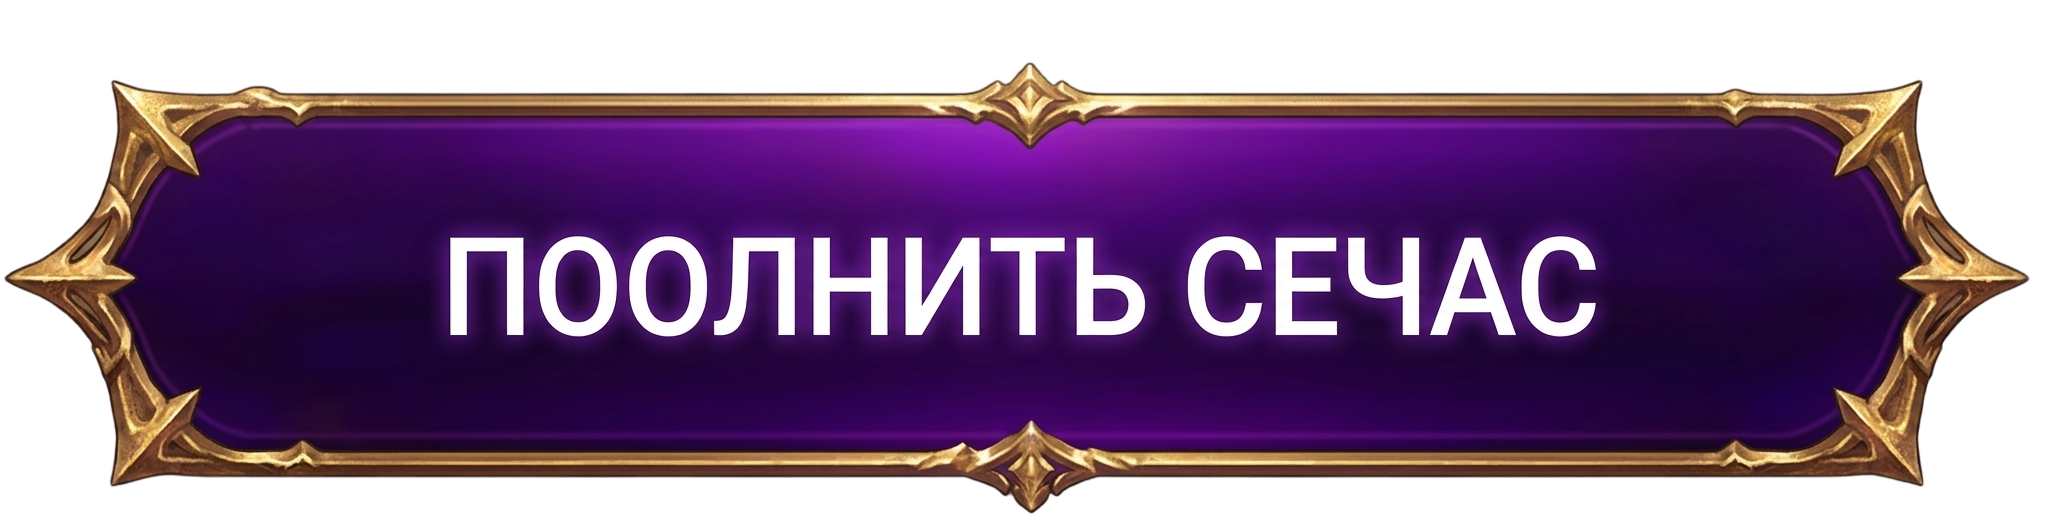
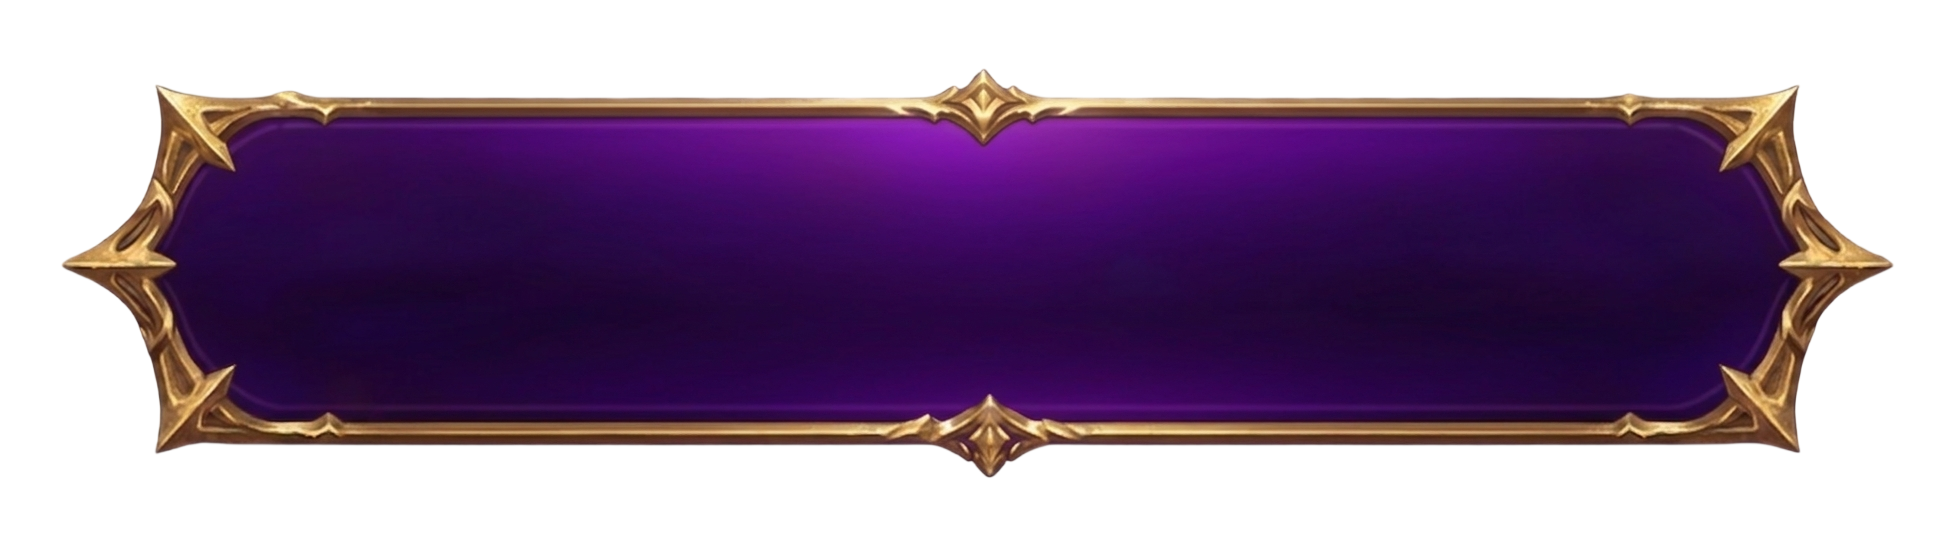
feat: add reviews section with button, update CTA buttons to text-based design

diff --git a/index.html b/index.html
@@ -147,7 +147,7 @@
         </ul>
 
         <a class="hero__cta" href="#" data-cta="primary" aria-label="Пополнить сейчас">
-          <img src="assets/images/hero/button.png" alt="" class="hero__cta-img" width="400" height="80">
+          <span class="hero__cta-text">Пополнить сейчас</span>
         </a>
       </div>
     </section>
@@ -457,6 +457,29 @@
       </div>
     </section>
 
+    <!-- 6.5 Reviews -->
+    <section class="reviews" id="reviews">
+      <div class="container container--wide">
+        <header class="section-heading">
+          <span class="section-heading__ornament" aria-hidden="true">
+            <span class="section-heading__line"></span>
+            <span class="section-heading__gem"></span>
+          </span>
+          <h2 class="section-heading__title">Отзывы наших клиентов</h2>
+          <span class="section-heading__ornament" aria-hidden="true">
+            <span class="section-heading__gem"></span>
+            <span class="section-heading__line"></span>
+          </span>
+        </header>
+
+        <div class="reviews__btn-wrap">
+          <a class="reviews__btn" href="https://t.me/BoostPayStore" target="_blank" rel="noopener noreferrer" aria-label="Отзывы наших клиентов">
+            <img class="reviews__btn-img" src="assets/images/hero/button2.png" alt="Отзывы" loading="lazy">
+          </a>
+        </div>
+      </div>
+    </section>
+
     <!-- 7. News & Promotions -->
     <section class="news" id="news">
       <div class="container container--wide">
@@ -622,7 +645,7 @@
         <h2 class="cta-banner__title">Готов к новым победам?</h2>
         <p class="cta-banner__text">Пополняй игры быстро, безопасно и выгодно в BOOSTPAY Store!</p>
         <a class="cta-banner__btn" href="#" data-cta="primary" aria-label="Пополнить сейчас">
-          <img src="assets/images/hero/button.png" alt="" class="cta-banner__btn-img" width="400" height="80">
+          <span class="cta-banner__btn-text">Пополнить сейчас</span>
         </a>
       </div>
     </section>

diff --git a/css/cta.css b/css/cta.css
@@ -79,29 +79,32 @@
   align-items: center;
   justify-content: center;
   margin-top: clamp(0.5rem, 1.5vh, 1rem);
-  min-width: min(18rem, 90%);
-  max-width: 24rem;
-  background: none;
+  width: clamp(14rem, 50%, 24rem);
+  aspect-ratio: 1959 / 544;
+  padding: 2.5% 4%;
+  background: url('../assets/images/hero/button.png') center / 100% 100% no-repeat;
   border: none;
   box-shadow: none;
+  overflow: hidden;
   transition: transform var(--transition-base), filter var(--transition-base);
   text-decoration: none;
 }
 
-.cta-banner__btn-img {
-  width: 100%;
-  height: auto;
-  display: block;
+.cta-banner__btn-text {
+  font-family: 'Cinzel', Georgia, serif;
+  font-weight: 400;
+  font-size: clamp(0.7rem, 2.2vw, 1.2rem);
+  letter-spacing: 0.08em;
+  text-transform: uppercase;
+  color: #fff;
+  text-shadow: 0 1px 3px rgba(0, 0, 0, 0.6), 0 0 10px rgba(168, 85, 247, 0.4);
   pointer-events: none;
+  white-space: nowrap;
 }
 
 .cta-banner__btn:hover {
   transform: translateY(-2px);
   filter: brightness(1.15);
-}
-
-.cta-banner__btn:hover .cta-banner__btn-img {
-  filter: drop-shadow(0 0 12px rgba(212, 168, 83, 0.6));
 }
 
 /* Corner ornaments for section border */
@@ -139,6 +142,10 @@
   .cta-banner {
     min-height: clamp(18rem, 28vw, 24rem);
   }
+
+  .cta-banner__btn {
+    width: clamp(14rem, 55%, 22rem);
+  }
 }
 
 /* ─── Mobile ─── */
@@ -149,6 +156,11 @@
   }
 
   .cta-banner__btn {
-    width: 90%;
+    width: 85%;
+  }
+
+  .cta-banner__btn-text {
+    font-size: clamp(0.6rem, 4.5vw, 0.85rem);
+    letter-spacing: 0.05em;
   }
 }

diff --git a/css/hero.css b/css/hero.css
@@ -157,20 +157,28 @@
   align-items: center;
   justify-content: center;
   margin-top: clamp(0.5rem, 1.5vh, 1rem);
-  min-width: min(16rem, 100%);
-  max-width: 22rem;
-  background: none;
+  width: clamp(14rem, 55%, 22rem);
+  aspect-ratio: 1959 / 544;
+  padding: 2.5% 4%;
+  background: url('../assets/images/hero/button.png') center / 100% 100% no-repeat;
   border: none;
   border-radius: 0;
   box-shadow: none;
+  text-decoration: none;
+  overflow: hidden;
   transition: transform var(--transition-base), filter var(--transition-base);
 }
 
-.hero__cta-img {
-  width: 100%;
-  height: auto;
-  display: block;
+.hero__cta-text {
+  font-family: 'Cinzel', Georgia, serif;
+  font-weight: 400;
+  font-size: clamp(0.7rem, 2.2vw, 1.2rem);
+  letter-spacing: 0.08em;
+  text-transform: uppercase;
+  color: #fff;
+  text-shadow: 0 1px 3px rgba(0, 0, 0, 0.6), 0 0 10px rgba(168, 85, 247, 0.4);
   pointer-events: none;
+  white-space: nowrap;
 }
 
 .hero__cta:hover {
@@ -178,12 +186,11 @@
   filter: brightness(1.15);
 }
 
-.hero__cta:hover .hero__cta-img {
-  filter: drop-shadow(0 0 12px rgba(212, 168, 83, 0.6));
-}
-
 /* Tablet */
 @media (max-width: 1024px) {
+  .hero__cta {
+    width: clamp(14rem, 60%, 20rem);
+  }
 }
 
 /* Mobile */
@@ -203,7 +210,12 @@
   }
 
   .hero__cta {
-    width: 100%;
+    width: 90%;
+  }
+
+  .hero__cta-text {
+    font-size: clamp(0.6rem, 4.5vw, 0.85rem);
+    letter-spacing: 0.05em;
   }
 }
 
